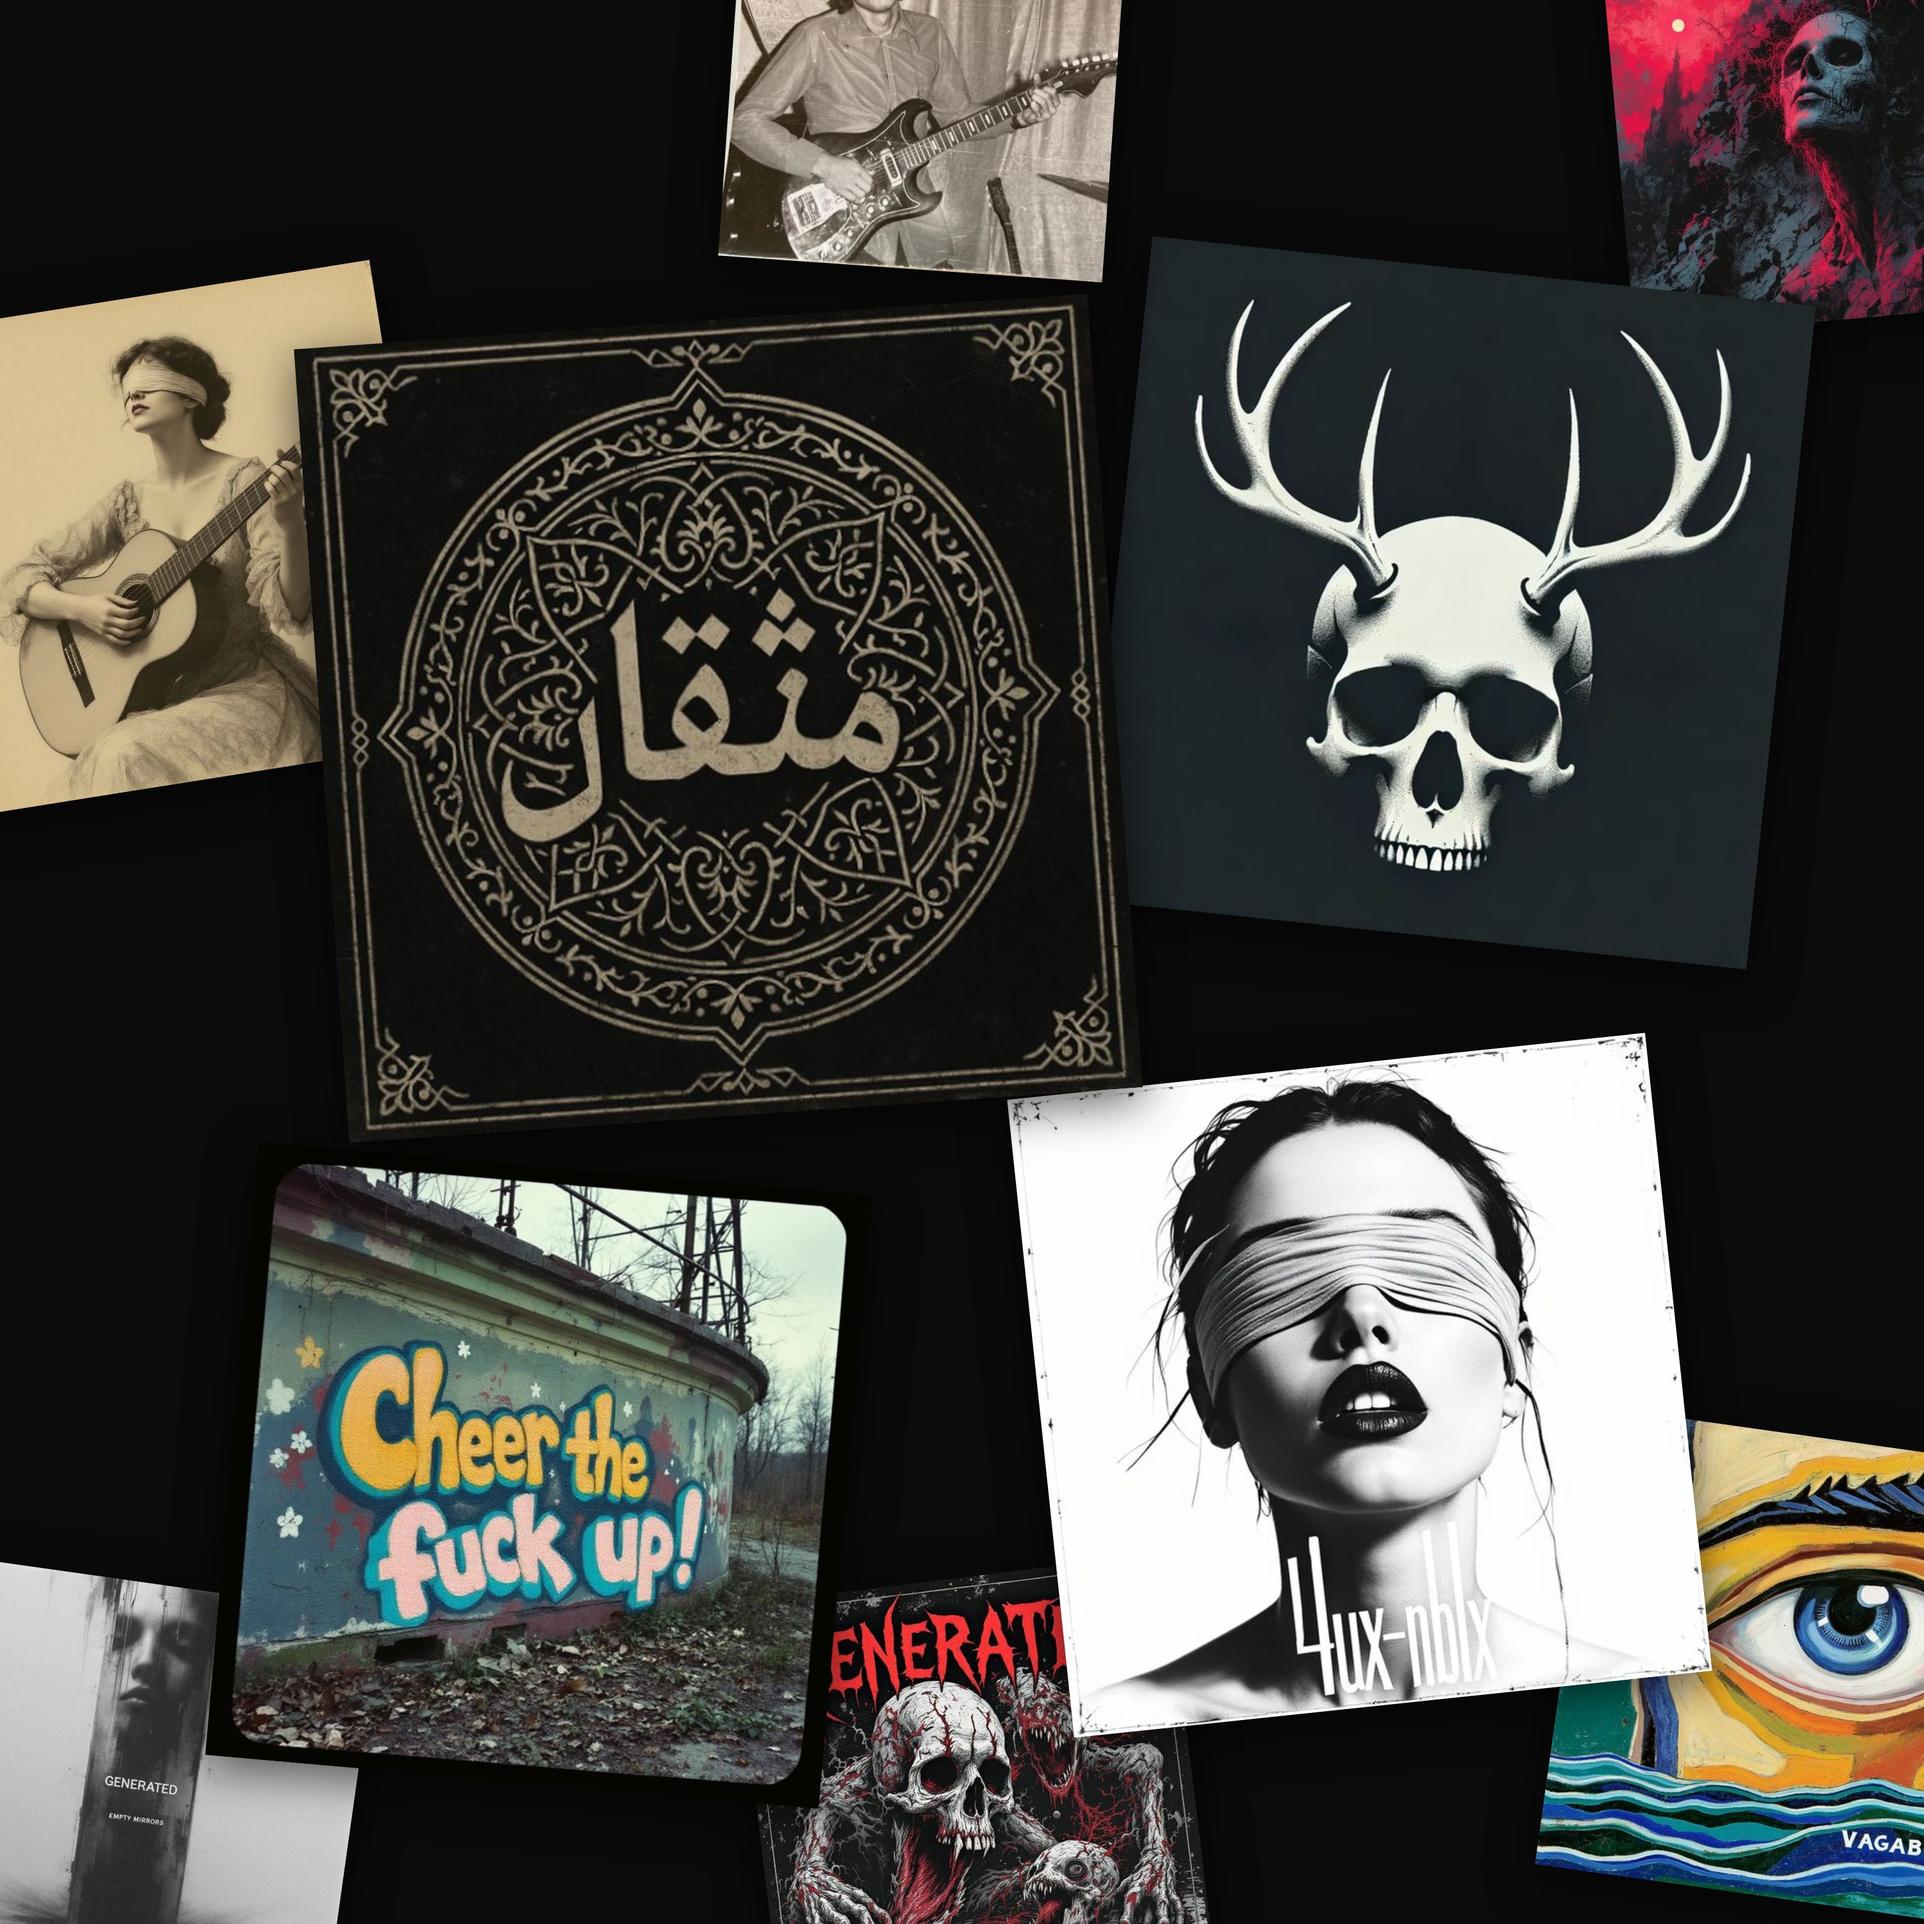
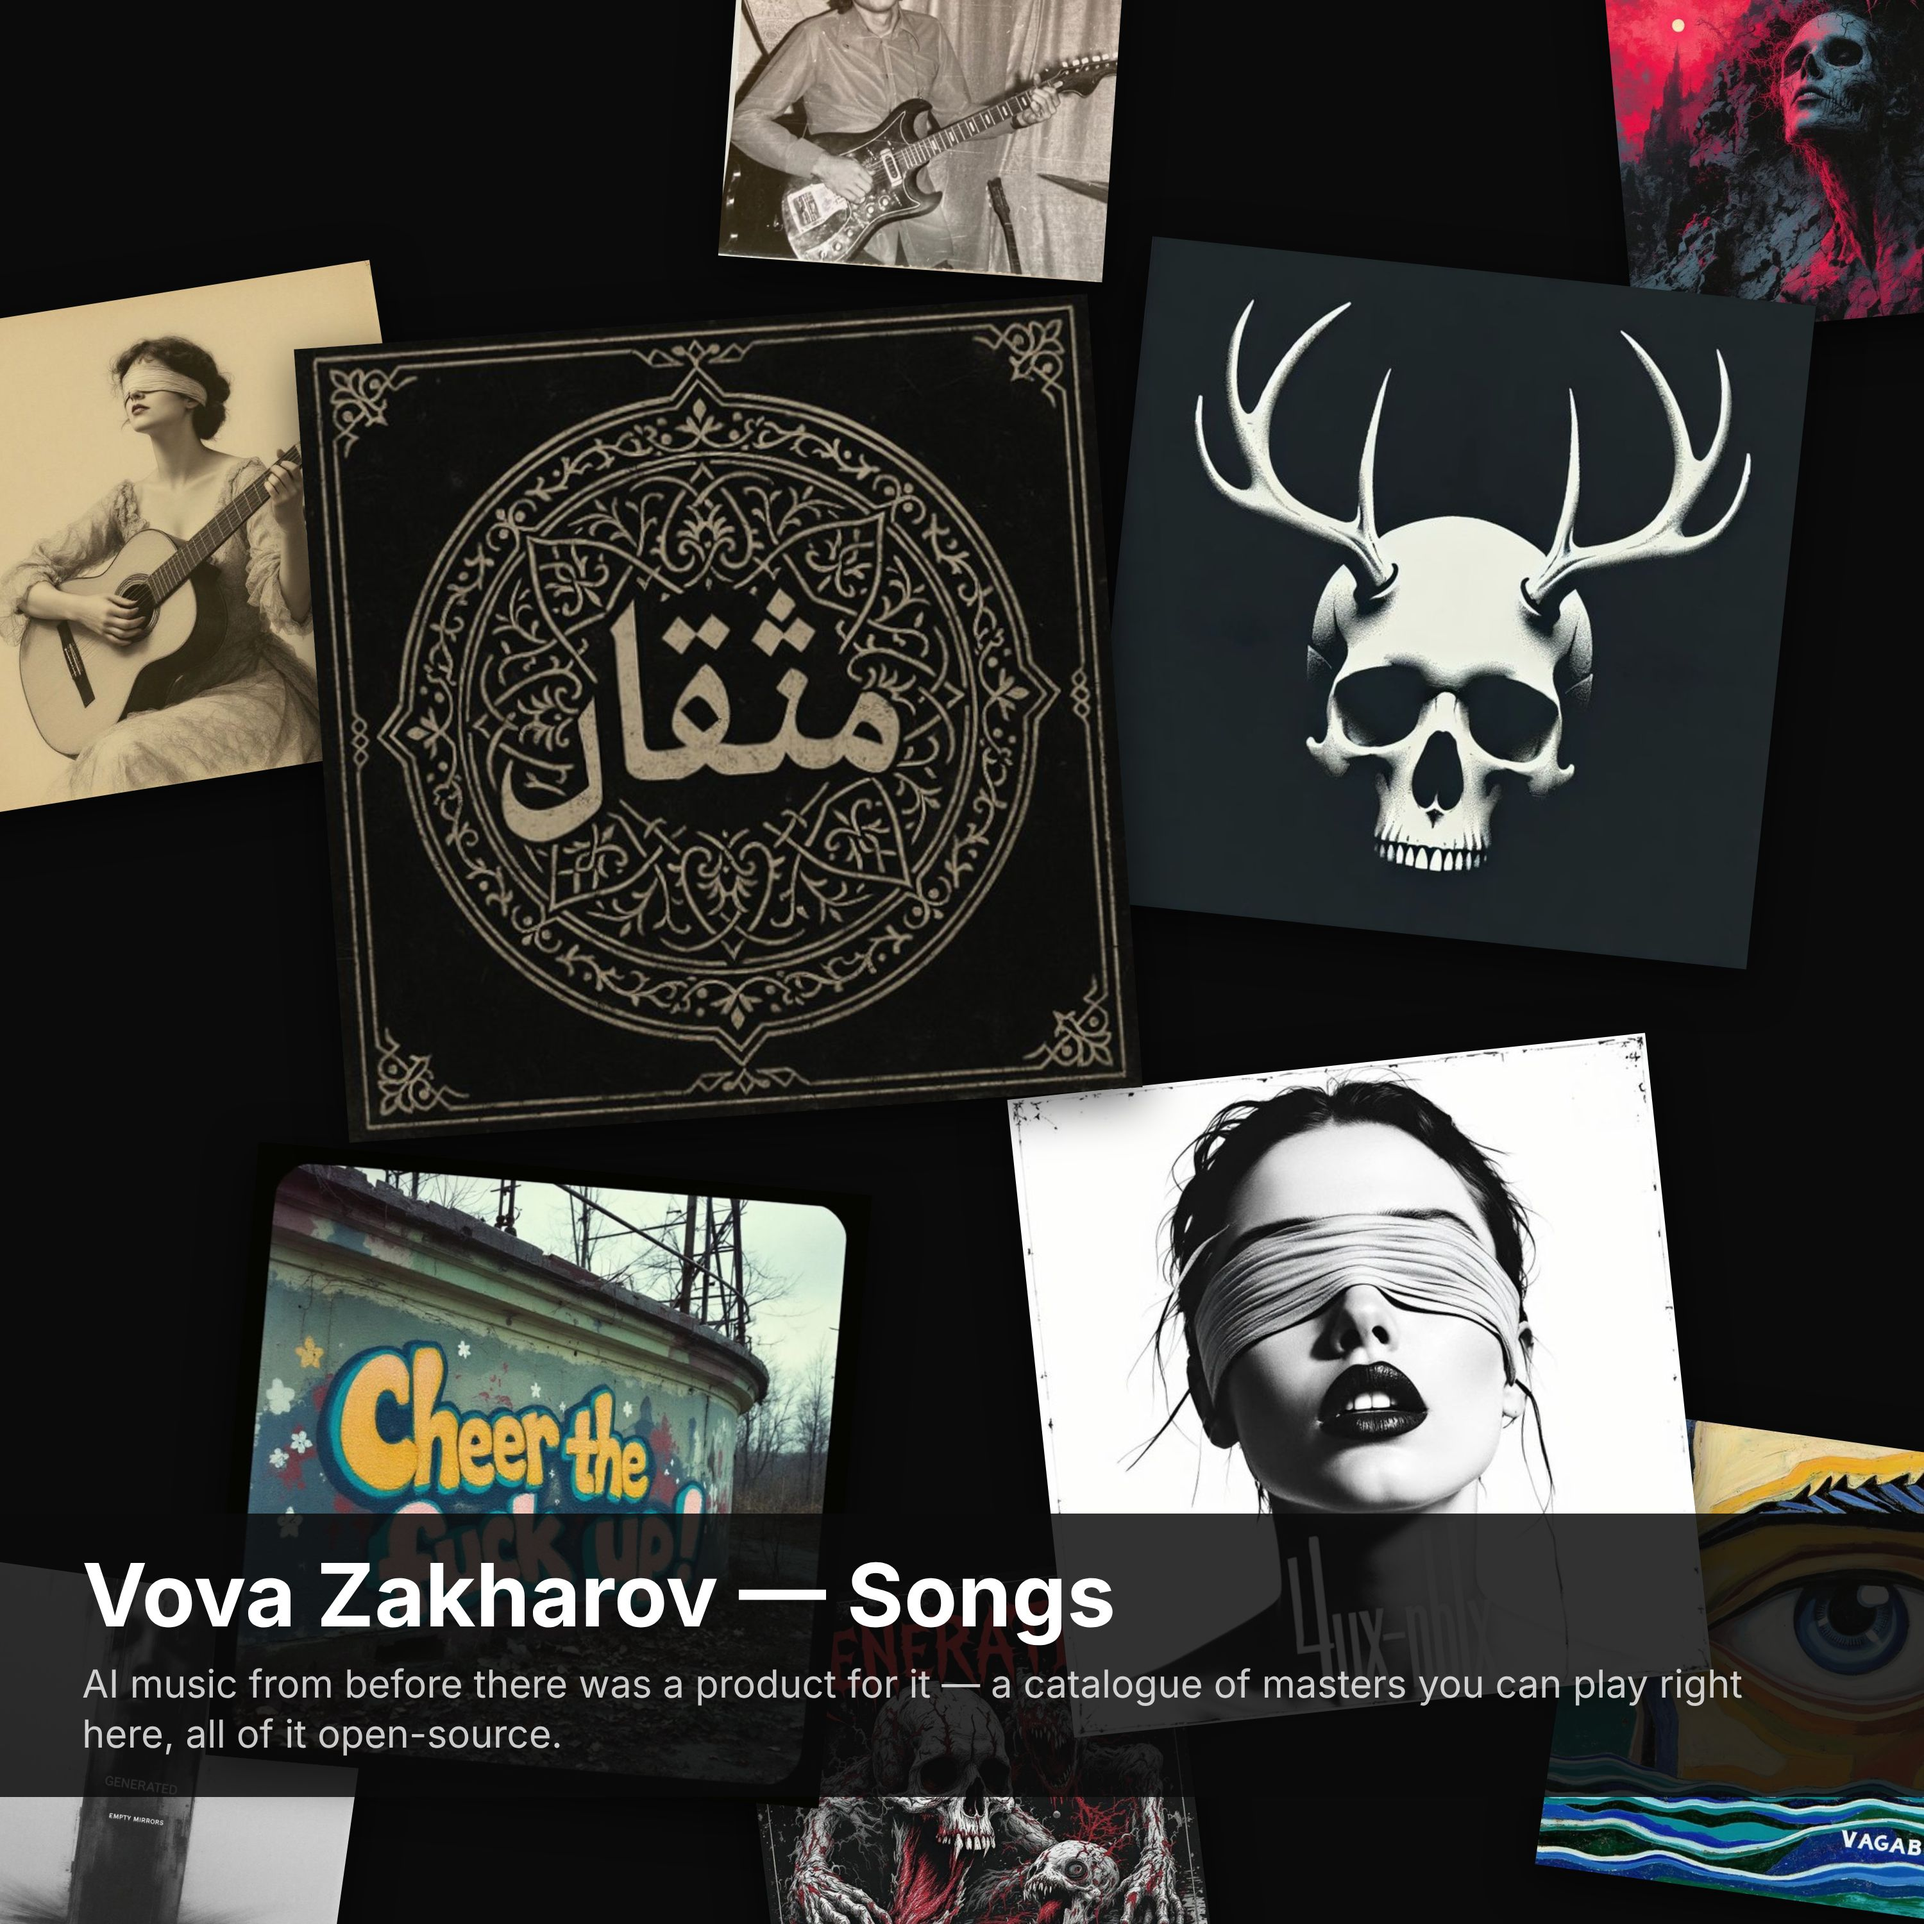
feat: #149 T02 — the podcast cover carries a band like the radio card's
The band's height on the canvas comes from the layout, since the square
cover is not the 1200x630 card the radio's was tuned for. It names the
songs feeds without their locale over the feeds' own description.

Claude-Session: https://claude.ai/code/session_016ECf9ueFMZFVkeV9pecs5u

Changed region(s): [[0.0, 0.775, 1.0, 0.961]]

diff --git a/scripts/lib/music-collage.ts b/scripts/lib/music-collage.ts
@@ -1,6 +1,6 @@
 /**
  * The music section's social card and its podcast cover, covers scattered at
- * different sizes and angles — with no text but the radio's band — as a page for
+ * different sizes and angles — with no text but the radio's and the podcast's band — as a page for
  * `og-render.ts` to screenshot.
  */
 
@@ -21,8 +21,8 @@ export type CollageBand = Titled & { line: string };
 /** A cover's place on the canvas: its centre, the length of its edge, and its tilt. */
 type Slot = { cx: number; cy: number; edge: number; degrees: number };
 
-/** A canvas and where the covers fall on it. */
-type Layout = { canvas: Sized; slots: readonly Slot[] };
+/** A canvas, where the covers fall on it, and how far down a band sits. */
+type Layout = { canvas: Sized; slots: readonly Slot[]; bandTop: number };
 
 /**
  * Hand-tuned rather than seeded, so the composition is judged once, not
@@ -46,6 +46,7 @@ const LAYOUTS = {
       { cx: 30, cy: 60, edge: 200, degrees: -10 },
       { cx: 700, cy: 30, edge: 190, degrees: -3 },
     ],
+    bandTop: 380,
   },
   /** The podcast cover, which Apple wants square and 1400–3000 px a side. */
   square: {
@@ -62,6 +63,7 @@ const LAYOUTS = {
       { cx: 110, cy: 1400, edge: 330, degrees: 8 },
       { cx: 720, cy: 60, edge: 300, degrees: 4 },
     ],
+    bandTop: 1180,
   },
 } as const satisfies Record<string, Layout>;
 
@@ -94,7 +96,7 @@ export function musicCollage(
   covers: readonly string[],
   { band, shape = 'card' }: { band?: CollageBand; shape?: CollageShape } = {},
 ): StagedPage {
-  const { canvas, slots }: Layout = LAYOUTS[shape];
+  const { canvas, slots, bandTop }: Layout = LAYOUTS[shape];
   const bandHtml =
     band === undefined
       ? ''
@@ -133,7 +135,7 @@ export function musicCollage(
         position: absolute;
         left: 0;
         right: 0;
-        top: 380px;
+        top: ${bandTop}px;
         z-index: ${slots.length + 1};
         padding: 26px 64px 30px;
         background: rgb(11 11 11 / 0.84);

diff --git a/scripts/render-og.ts b/scripts/render-og.ts
@@ -274,9 +274,19 @@ function radioBand(): CollageBand {
   return { title, line: pitch };
 }
 
+/** The songs feeds' name without its locale, over the feeds' own description. */
+function podcastBand(): CollageBand {
+  const { title, metaDescription } = loadMessages('en').music;
+
+  return {
+    title: `${siteConfig(RENDERED_SITE).name} — ${title}`,
+    line: metaDescription,
+  };
+}
+
 /**
  * The index's collage, the radio's — the same covers under its band — the
- * songs feeds' square cut of it, and each artist's that has one, at the
+ * songs feeds' square cut of it under theirs, and each artist's that has one, at the
  * addresses their pages' metadata and the feeds point to.
  */
 function musicCards(): Card[] {
@@ -285,7 +295,10 @@ function musicCards(): Card[] {
   return [
     collageCard(musicCollageCovers(), MUSIC_COLLAGE),
     collageCard(musicCollageCovers(), RADIO_CARD, { band: radioBand() }),
-    collageCard(musicCollageCovers(), PODCAST_COVER, { shape: 'square' }),
+    collageCard(musicCollageCovers(), PODCAST_COVER, {
+      band: podcastBand(),
+      shape: 'square',
+    }),
     ...MUSIC_PROJECT_NAMES.flatMap((artist) => {
       const covers = artistCollageCovers(artist);
 
